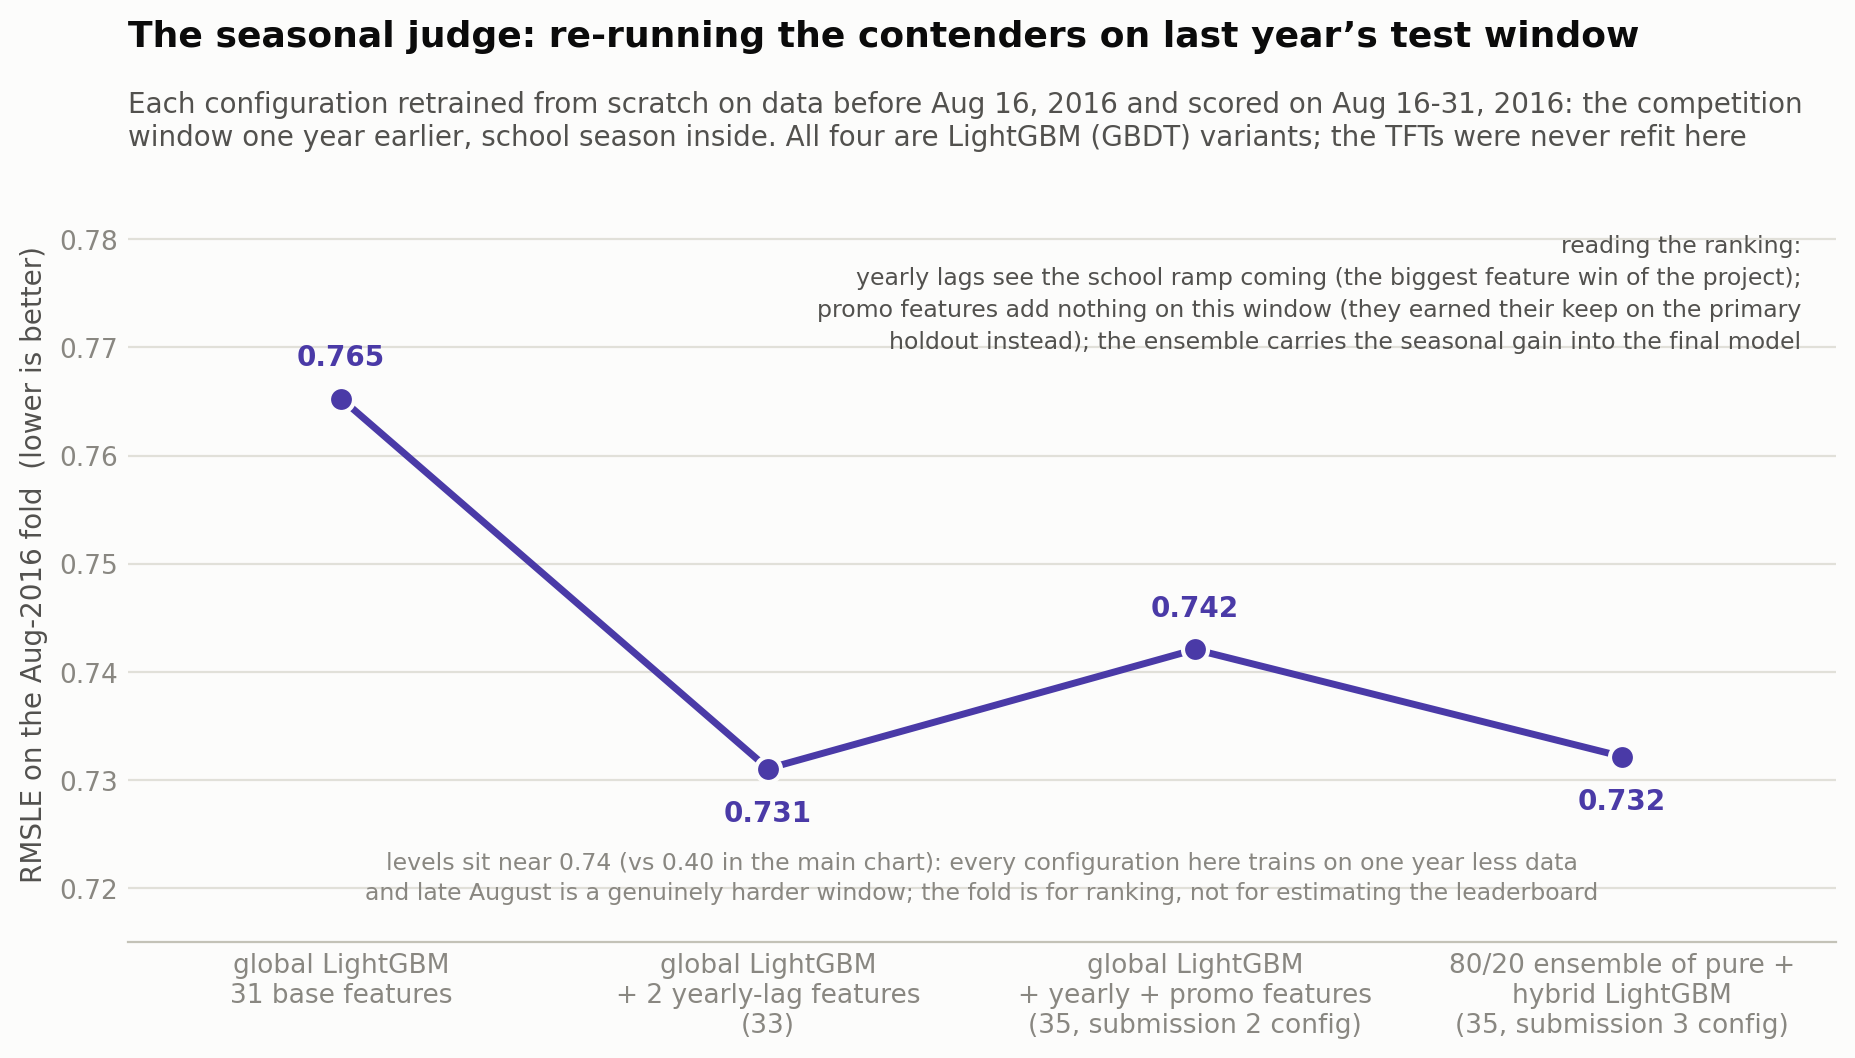
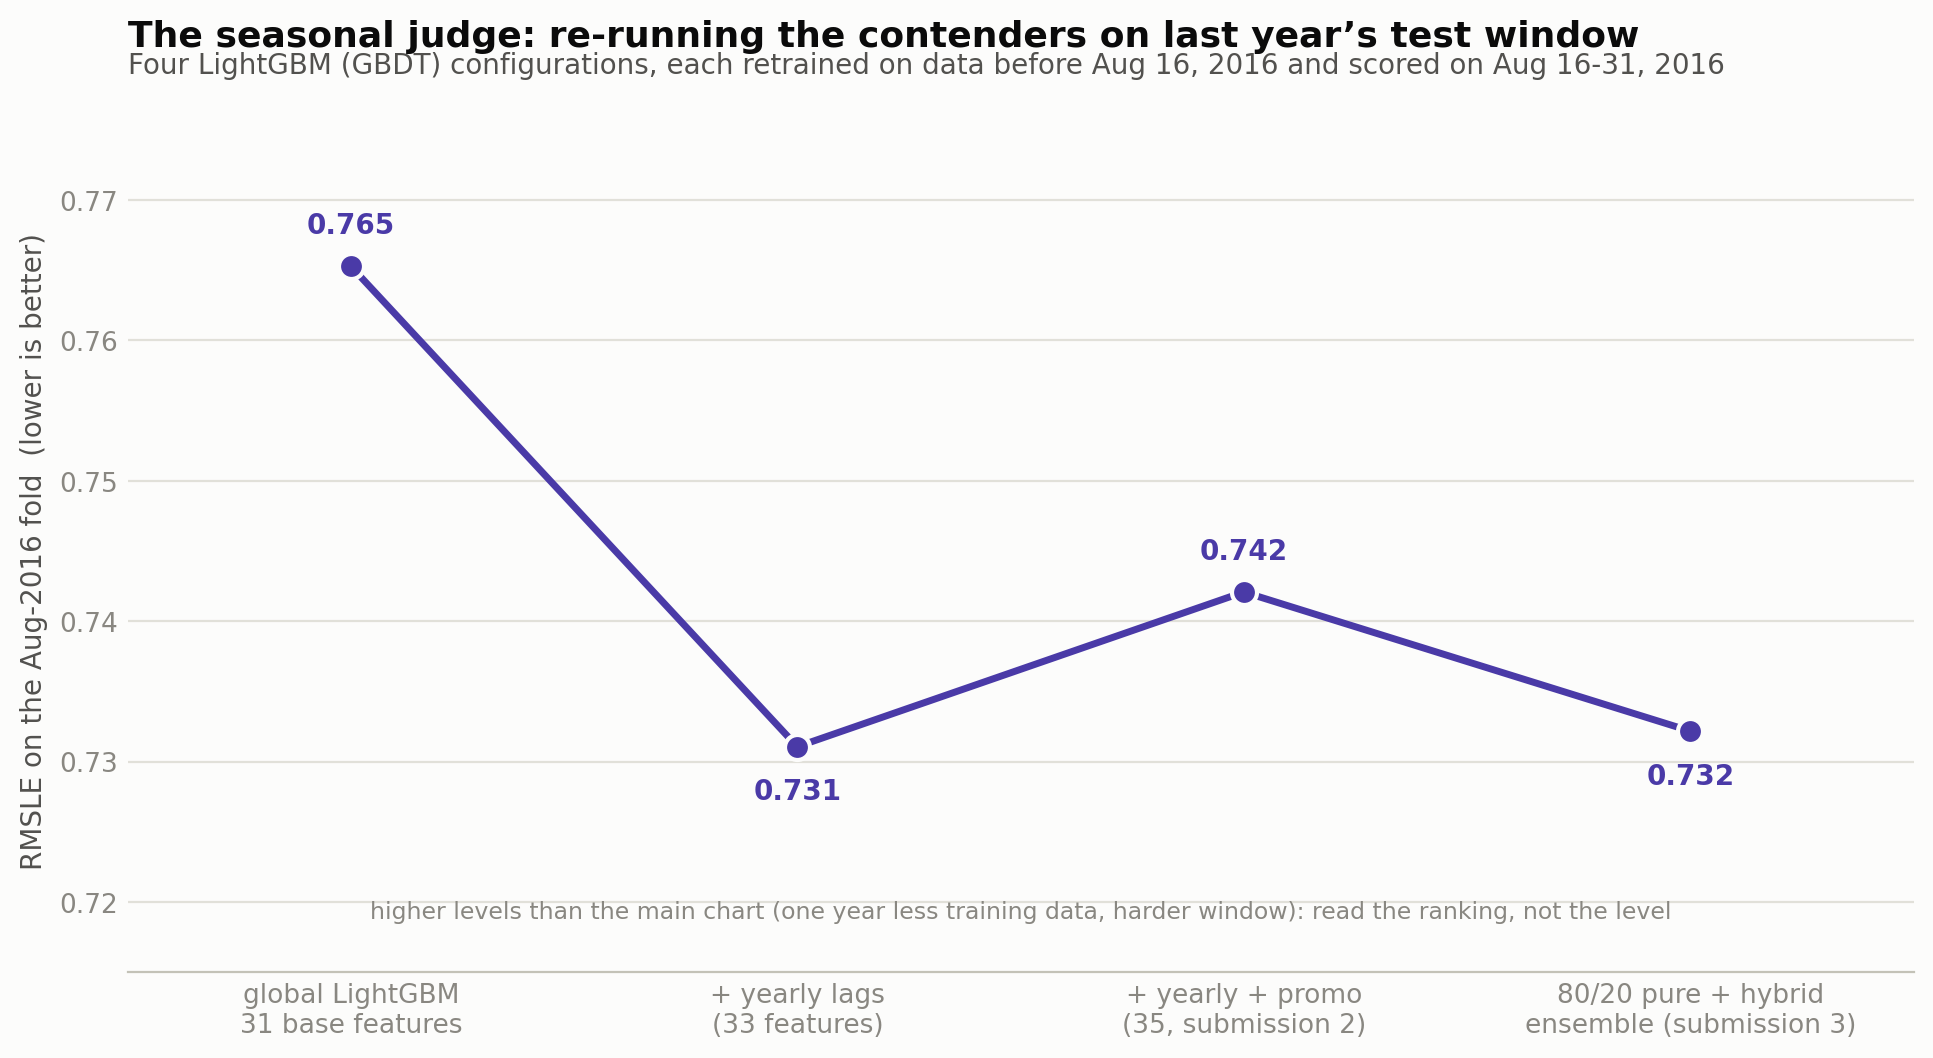
Declutter seasonal fold chart, move context into prose

diff --git a/README.md b/README.md
@@ -20,7 +20,7 @@ Forecasting 16 days of daily unit sales for 54 stores × 33 product families (~1
 
 Submissions 1-4 are the experiment phase: every model was also fitted on pre-holdout data, so each idea got an honest local score. Submissions 5-7 are the finalist phase: the two proven contenders (the GBDT ensemble and the TFT) were retrained on the full dataset, and their prediction files were blended 50/50 on the log scale. Submission 5 blends the GBDT ensemble with TFT v1, submission 6 is the improved TFT v2 on its own, and submission 7 blends the GBDT ensemble with TFT v2. These outputs only exist for the real test window, and by then the holdout had twice been shown to misjudge late-August value, so the Aug-2016 fold and the leaderboard were the only honest judges left. Hyperparameter tuning was deliberately deferred throughout: early stopping set the tree counts, and feature work moved the score more than any parameter would.
 
-Season-sensitive choices were ranked on that second validation fold, the competition window one year earlier:
+That second fold deserves a word, because it is the methodological core of the project. The primary holdout ends on Aug 15, right before Ecuador's school season, so it structurally under-credits anything whose value sits in late August; that is exactly what submission 1's leaderboard gap exposed. The fix was a second judge: the competition window one year earlier (Aug 16-31, 2016, school surge included), with every candidate retrained from scratch on data before that date. All four candidates below are LightGBM (GBDT) configurations, because refitting a TFT costs another full training run. This fold is what kept the yearly lags (its biggest win, 0.765 to 0.731), refused to credit promo features for seasonal value, and confirmed the ensemble. Its levels sit far above the main chart's because each model trains on one year less data on a genuinely harder window: it ranks candidates, it never estimates the leaderboard.
 
 ![Seasonal fold ranking](assets/seasonal_fold.png)
 
